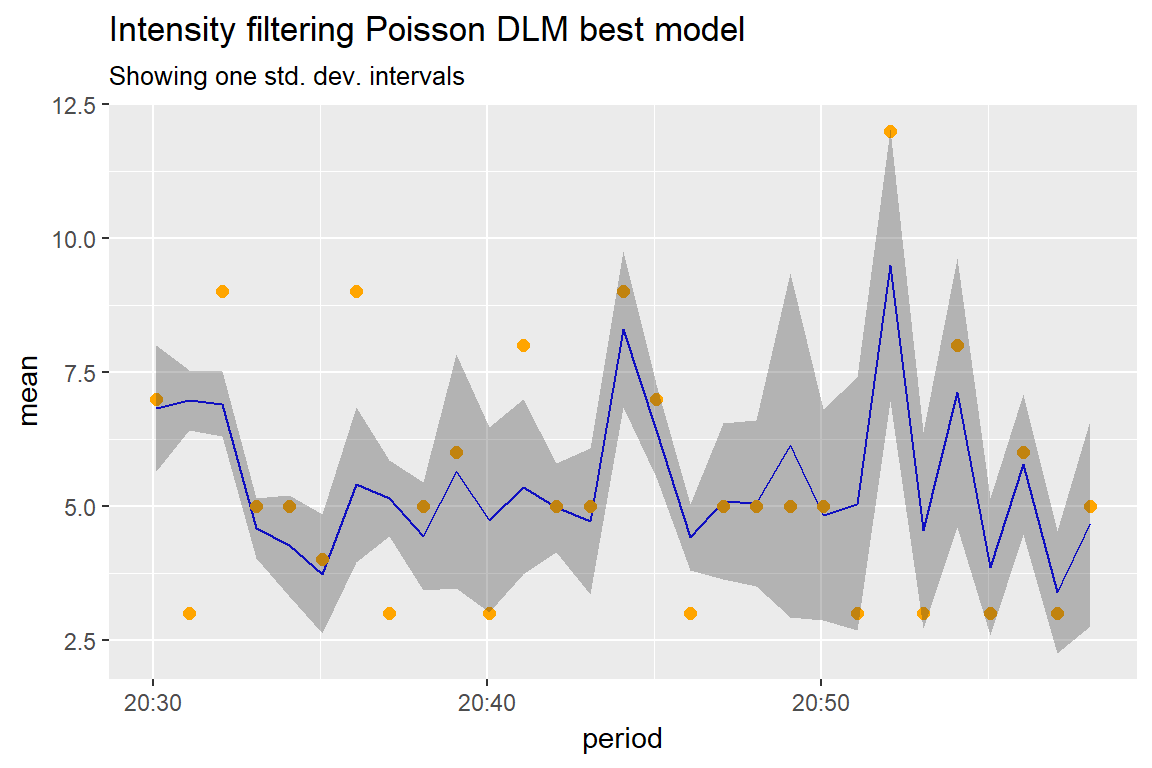
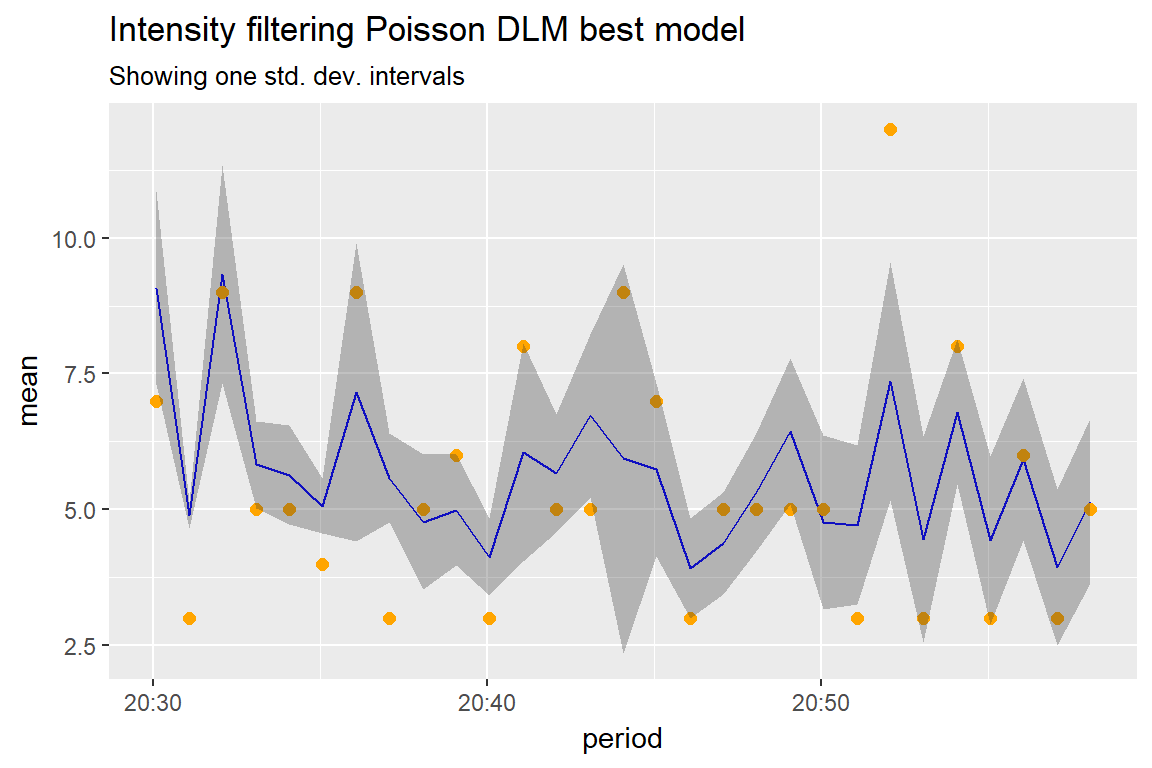
merge and readme updates

diff --git a/docs/index.html b/docs/index.html
@@ -77,11 +77,40 @@
       
       </header><div class="row">
   <div class="contents col-md-9">
-    <div id="pldensity" class="section level1">
+    <div id="dynamic-dirichlet-mixtures-and-spatial-poisson-processes" class="section level1">
 <div class="page-header"><h1 class="hasAnchor">
-<a href="#pldensity" class="anchor"></a>pldensity</h1></div>
-<p>Particle Learning density estimation using Dirichlet Process Mixture of Normals</p>
-<p><a href="https://bigdatastats.github.io/pldensity/htmldocs/crossvalidation.html">Link to example and cross validation template</a></p>
+<a href="#dynamic-dirichlet-mixtures-and-spatial-poisson-processes" class="anchor"></a>Dynamic Dirichlet Mixtures and Spatial Poisson Processes</h1></div>
+<p>Hi! This is our package for fitting densities using Dynamic Infinite Mixture of Normals models with Dirichlet Processes. It uses C++ Armadillo and Rcpp for maximum speed. We are especially interested in applications to spatial data. Stay tuned for updates!</p>
+<p>In the mean time, here are some links to examples</p>
+<table class="table">
+<thead><tr class="header">
+<th>Topic</th>
+<th>Thumbnail</th>
+</tr></thead>
+<tbody>
+<tr class="odd">
+<td><a href="https://bigdatastats.github.io/pldensity/docs/reference/index.html">1. Documentation Home</a></td>
+<td><img src="img/docs.JPG"></td>
+</tr>
+<tr class="even">
+<td><a href="https://bigdatastats.github.io/pldensity/docs/articles/intro.html">2. Introduction</a></td>
+<td><img src="img/intro.JPG"></td>
+</tr>
+<tr class="odd">
+<td><a href="https://bigdatastats.github.io/pldensity/docs/articles/intro.html">3. Dynamic Fitting</a></td>
+<td><img src="img/dynamic.JPG"></td>
+</tr>
+<tr class="even">
+<td><a href="https://bigdatastats.github.io/pldensity/docs/articles/intro.html">4. Spatial Austin Data</a></td>
+<td><img src="img/austin.png"></td>
+</tr>
+</tbody>
+</table>
+<div id="references" class="section level2">
+<h2 class="hasAnchor">
+<a href="#references" class="anchor"></a>References</h2>
+<p>Matthew A. Taddy (2012) “Autoregressive Mixture Models for Dynamic Spatial Poisson Processes: Application to Tracking Intensity of Violent Crime”, <em>Journal of the American Statistical Association</em>, 105:492, 1403-1417, DOI: 10.1198/jasa.2010.ap09655nt Crime</p>
+</div>
 </div>
   </div>
 

diff --git a/docs/articles/spatial_poisson.html b/docs/articles/spatial_poisson.html
@@ -81,7 +81,7 @@
       <h1>Spatial Poisson Process</h1>
                         <h4 class="author">Mauricio Tec &amp; Natalia Zuniga</h4>
             
-            <h4 class="date">2018-05-08</h4>
+            <h4 class="date">2018-05-09</h4>
       
       
       <div class="hidden name"><code>spatial_poisson.Rmd</code></div>
@@ -213,11 +213,11 @@ params <span class="op">%&gt;%</span><span class="st"> </span>
 <span class="st">  </span><span class="kw">arrange</span>(<span class="kw">desc</span>(logmarginal)) <span class="op">%&gt;%</span><span class="st"> </span>
 <span class="st">  </span><span class="kw">head</span>(<span class="dv">5</span>)</code></pre></div>
 <pre><code>##   nu0 delta       xi0 logmarginal
-## 1  16  0.19 0.0100000   -58.54294
-## 2   6  0.69 0.3162278   -58.66977
-## 3  16  0.69 3.1622777   -58.68837
-## 4  11  0.69 1.0000000   -58.72347
-## 5   1  0.69 0.3162278   -58.73771</code></pre>
+## 1  16  0.69 3.1622777   -58.67165
+## 2   6  0.69 0.3162278   -58.76330
+## 3   1  0.69 0.3162278   -58.86815
+## 4  11  0.69 3.1622777   -58.89934
+## 5  11  0.69 1.0000000   -58.91973</code></pre>
 <div class="sourceCode"><pre class="sourceCode r"><code class="sourceCode r">logintensity &lt;-<span class="st"> </span>results[[best]]<span class="op">$</span>logintensity
 mean &lt;-<span class="st"> </span><span class="kw">apply</span>(<span class="kw">exp</span>(logintensity), <span class="dv">1</span>, mean)
 sd &lt;-<span class="st"> </span><span class="kw">apply</span>(<span class="kw">exp</span>(logintensity), <span class="dv">1</span>, sd)

diff --git a/docs/articles/dynamic_data.html b/docs/articles/dynamic_data.html
@@ -81,7 +81,7 @@
       <h1>Fit dynamic distributions</h1>
                         <h4 class="author">Mauricio Tec &amp; Natalia Zuniga</h4>
             
-            <h4 class="date">2018-05-08</h4>
+            <h4 class="date">2018-05-09</h4>
       
       
       <div class="hidden name"><code>dynamic_data.Rmd</code></div>

diff --git a/docs/articles/rideaustin.html b/docs/articles/rideaustin.html
@@ -81,7 +81,7 @@
       <h1>Ride Austin</h1>
                         <h4 class="author">Mauricio Tec &amp; Natalia Zuniga</h4>
             
-            <h4 class="date">2018-05-08</h4>
+            <h4 class="date">2018-05-09</h4>
       
       
       <div class="hidden name"><code>rideaustin.Rmd</code></div>

diff --git a/docs/articles/intro.html b/docs/articles/intro.html
@@ -81,7 +81,7 @@
       <h1>Introduction</h1>
                         <h4 class="author">Mauricio Tec &amp; Natalia Zuniga</h4>
             
-            <h4 class="date">2018-05-08</h4>
+            <h4 class="date">2018-05-09</h4>
       
       
       <div class="hidden name"><code>intro.Rmd</code></div>

diff --git a/README.md b/README.md
@@ -22,7 +22,7 @@ Matthew A. Taddy (2012) "Autoregressive Mixture Models for Dynamic Spatial Poiss
 [im_dynamic]: img/dynamic.JPG
 [im_intro]: img/intro.JPG
 [im_austin]: img/austin.png
-[docs]: https://bigdatastats.github.io/pldensity/docs/index.html
+[docs]: https://bigdatastats.github.io/pldensity/docs/reference/index.html
 [intro]: https://bigdatastats.github.io/pldensity/docs/articles/intro.html
 [dynamic]: https://bigdatastats.github.io/pldensity/docs/articles/intro.html
 [austin]: https://bigdatastats.github.io/pldensity/docs/articles/intro.html
